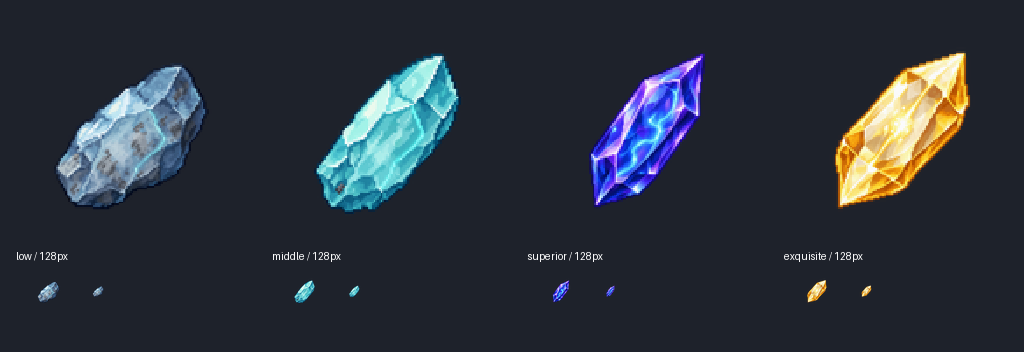
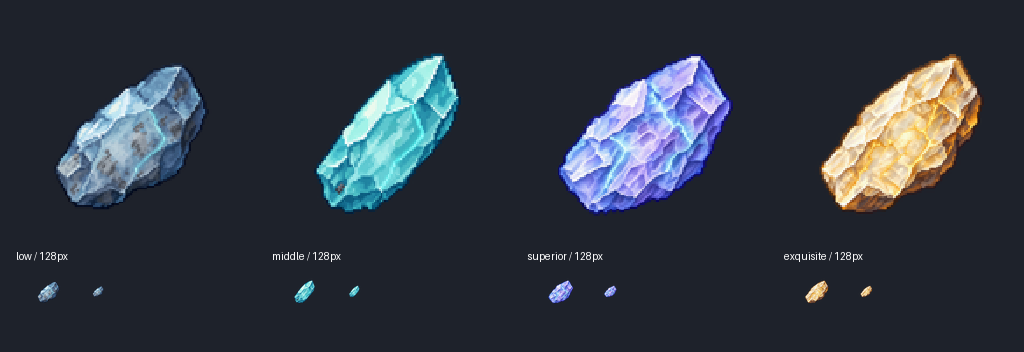
Redesign high grade spirit stones as natural mineral crystals

diff --git a/source-assets/spirit-stone-grades-20261026/high-grade-redesign-prompts.md b/source-assets/spirit-stone-grades-20261026/high-grade-redesign-prompts.md
@@ -1,0 +1,15 @@
+# 上品、极品重做
+
+使用内置 image_gen，以 low-generated.png 和 middle-generated.png 为风格参考分别生成，保留 128×128 正式贴图尺寸。
+
+## 上品提示词
+
+Use image 1 and image 2 as STYLE and natural mineral family references, not exact copies. Create a new SUPERIOR GRADE xianxia spirit stone inventory asset. It must feel like a naturally grown spiritual mineral from the same family as these rough blue and cyan stones, more pure and spiritually charged. A thick squat oblong irregular chunk, softly uneven broken terminations, broad asymmetrical cleavage planes, small stepped mineral edges, rich internal cloudy crystalline depth. Muted periwinkle blue and amethyst-lavender body with subtle cyan-white spiritual veins embedded deep inside. Restrained luminous translucency, textured mineral planes, a few darker bluish inclusions; preserve a tactile stone feeling. High quality detailed pixel-art suitable for a 128x128 Minecraft item texture, matching reference shading and pixel clusters. Diagonal lower left to upper right, 3/4 volume, upper-left light, single centered stone with generous transparent margins. No perfectly pointed spear shape, no symmetrical polished diamond, no neon saturation, no bright white lines tracing every facet, no lightning bolt drawing, no metal, no halo, no particles, no text, no ground shadow. Truly transparent background. ONE stone only.
+
+## 极品提示词
+
+Use images 1 and 2 as STYLE and natural spiritual mineral family references. Create a new EXQUISITE GRADE, highest grade xianxia spirit stone inventory asset. Must feel like a rare naturally condensed mineral of the same family as these grey-blue and cyan stones. Thick full irregular oblong stone with blunt uneven ends, broad asymmetrical natural cleavage planes, subtle stepped broken edges, dense translucent jade-like mineral flesh and layered cloudy inclusions inside. Pale warm ivory and subtle honey champagne-gold crystal body, darker ochre and smoky amber side planes giving weight, a small softly luminous cream spiritual marrow deep within and fine naturally branching gold internal veins. Rare and spiritually potent yet tactile and stony, moderate brightness with plenty of midtones. Detailed pixel art suitable for 128x128 Minecraft item texture matching reference pixel clusters, shading and natural texture. Same diagonal lower left to upper right orientation, three-quarter view, upper-left light, centered on square truly transparent canvas with generous margins. Single chunk only. Avoid brilliant yellow neon, orange metal, perfect cut gemstone, symmetrical pointed diamond, spear shape, star shaped core, white lines around every facet, external glow or particles. No text, base, ground shadow or scene.
+
+## 二次修正
+
+分别引用生成结果，保留不规则厚实原石轮廓、天然切面、配色和灵脉。将正面灰黑/泥褐色不透明杂质改为蓝紫/蜜金半透明晶质、细腻矿物层次和云状内部纹理；保留侧面阴影与天然断口，体现高品阶纯度。透明背景，不增加尖锐双尖、外部光晕或金属质感。

diff --git a/source-assets/spirit-stone-grades-20261026/README.md b/source-assets/spirit-stone-grades-20261026/README.md
@@ -17,3 +17,5 @@
 验证：四张贴图尺寸、透明边距、互异性、模型引用、正式构建和包内字节一致性；安装 SHA-256 由 tools/install_test_instance.py 记录。尚未进行客户端实机验收，本记录不代表项目整体完成验收。
 
 128px 升级：保留既有四档设计，重新从生图原件缩制，更新对照预览。PNG 无损保存；放大预览检查边缘、切面和晶髓，未进行客户端实机验收。
+
+上品、极品自然矿晶重做：当前采用 superior-natural-generated.png 与 exquisite-natural-generated.png 为源图。参考前两档厚实不规则矿晶，保留蓝紫/蜜金品阶配色、内部灵脉与晶质层次，移除规整双尖和强烈霓虹宝石外观。正式资源仍为 128×128；下品、中品未修改。完整提示词见 high-grade-redesign-prompts.md。历史 *-generated.png 作为旧设计记录保留。
